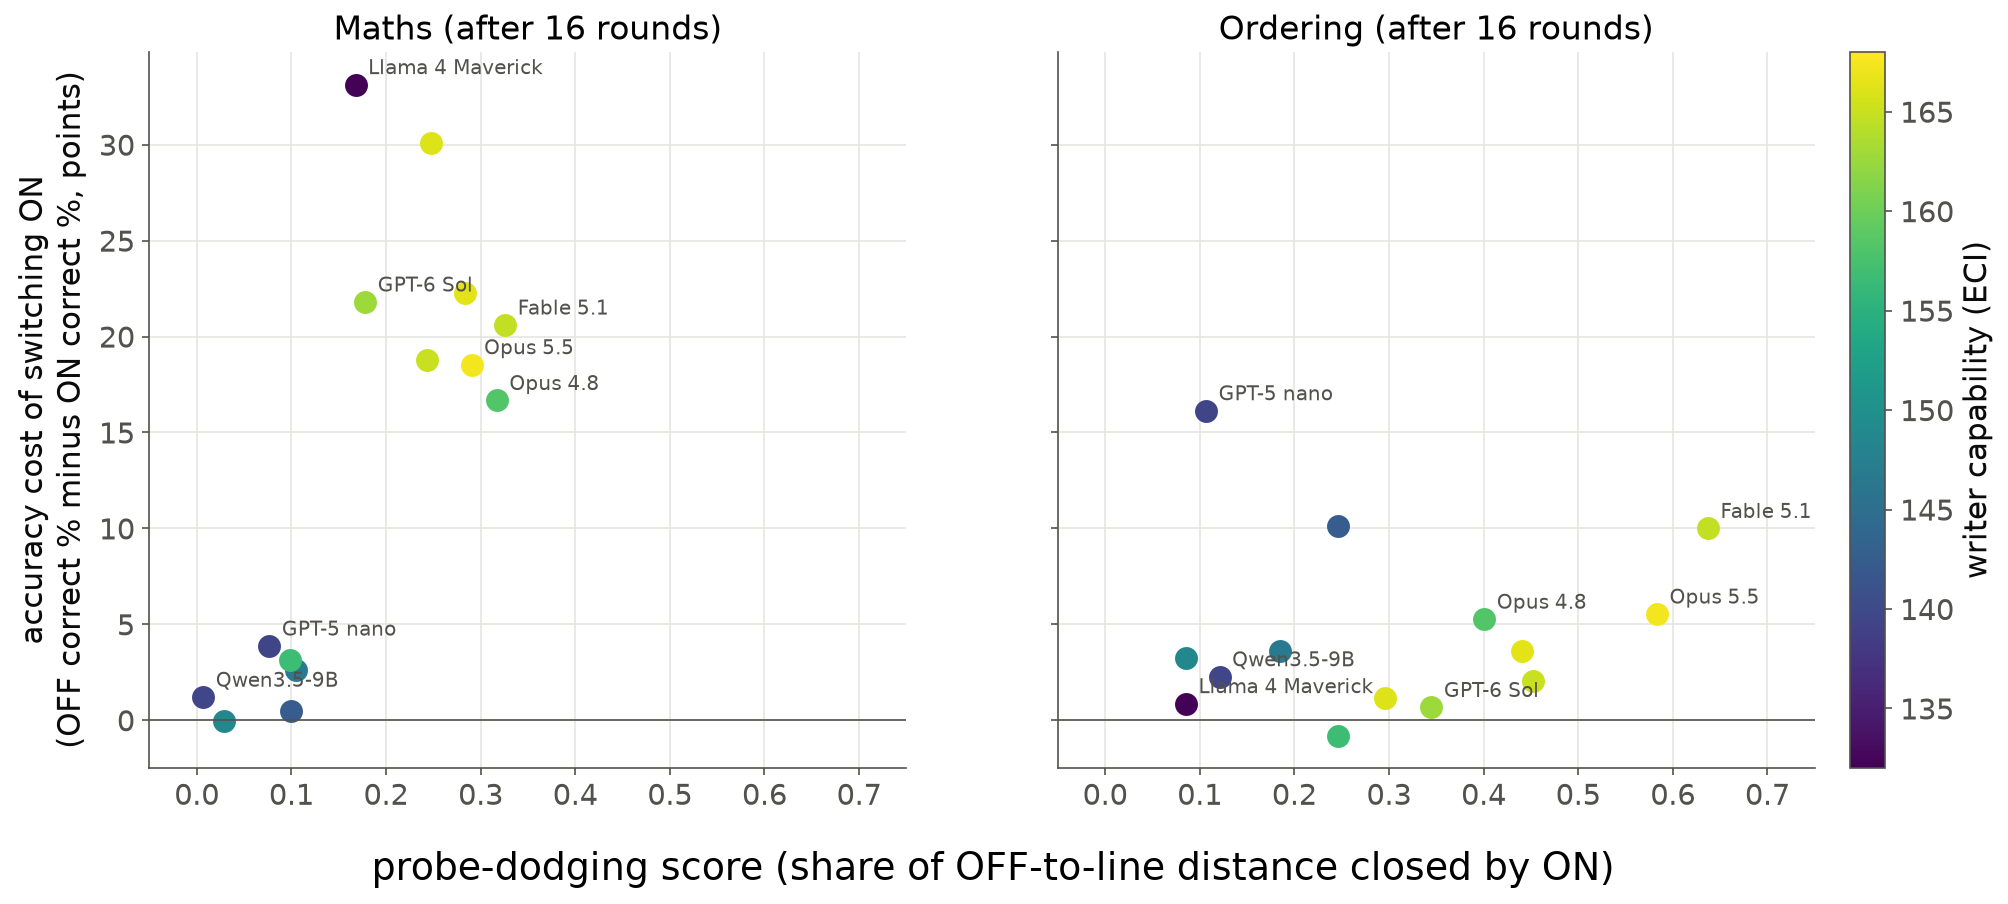
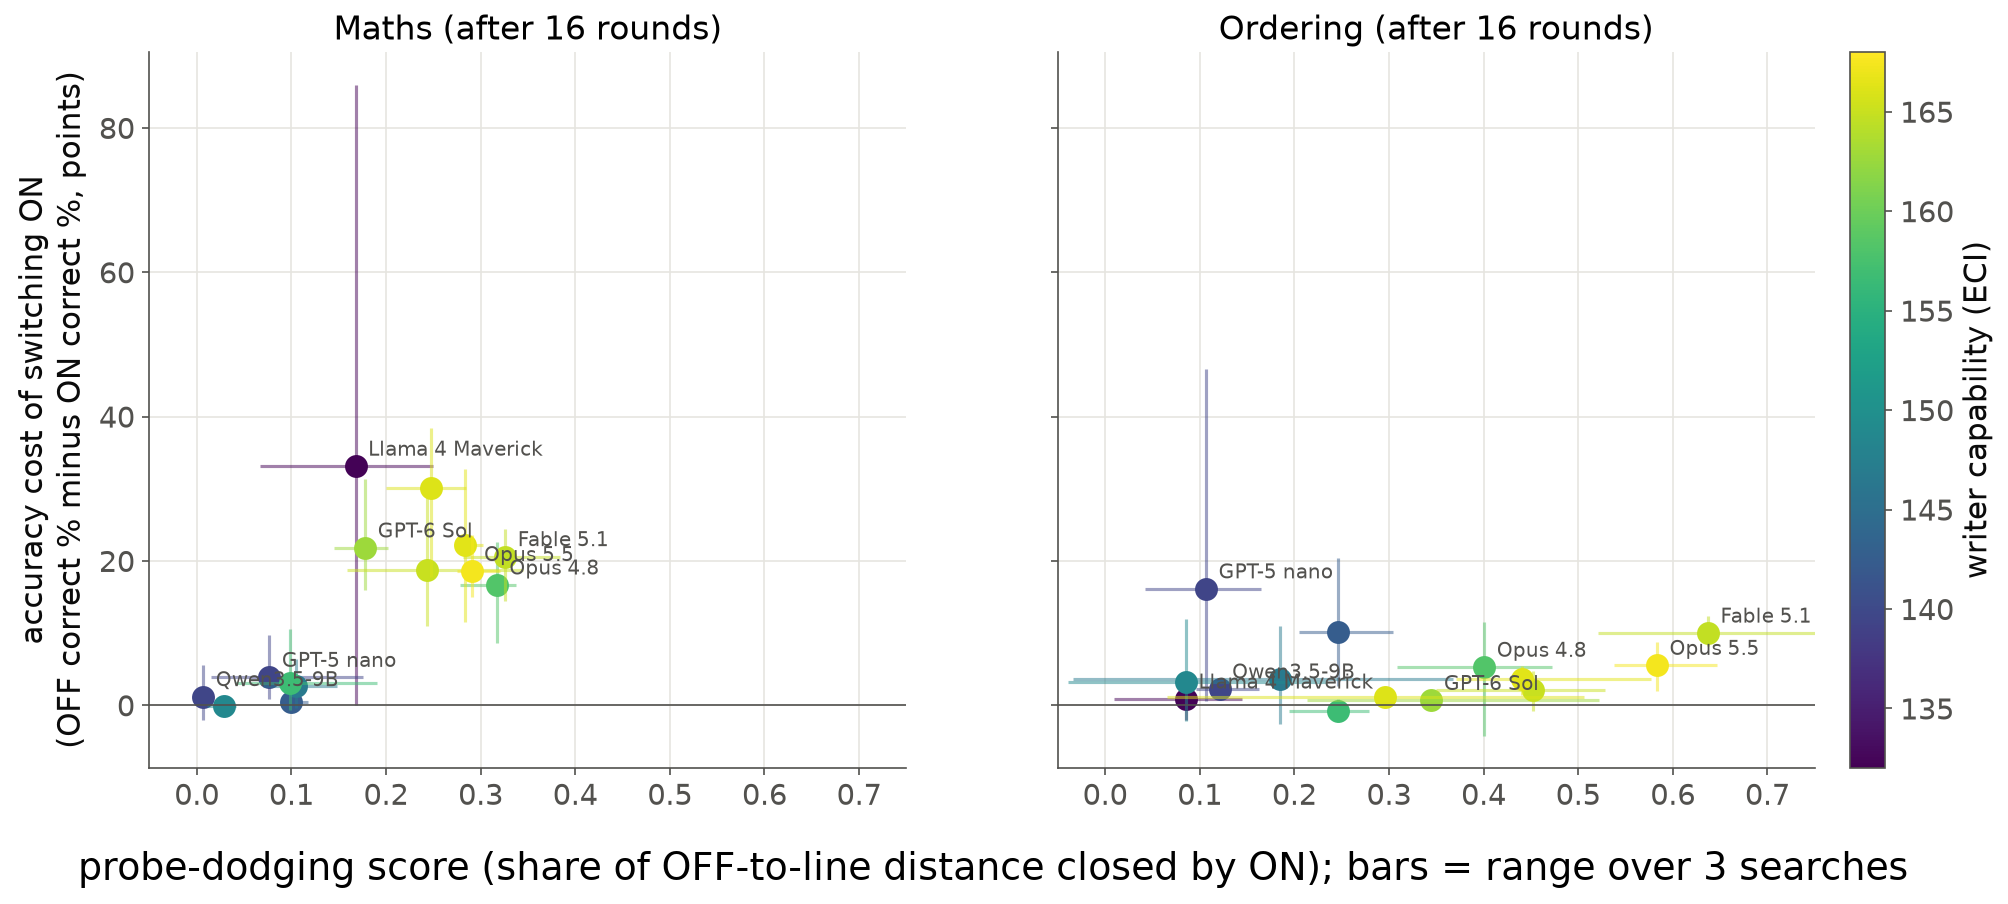
Accuracy-cost figure: range bars over the 3 searches on both axes

diff --git a/analysis/post_v8/rounds_and_success.py b/analysis/post_v8/rounds_and_success.py
@@ -47,40 +47,43 @@ RUNS = F.M45 / "runs"
 WRITER_BATCH = lambda w: "d" if w in F.ADDED_LATER else "c"
 
 
-def correct_shares(task: str, writer: str) -> tuple[float, float]:
-    """(ON, OFF) share of correct answers over the writer's 3 searches x 500 test pairs at B = 16. Maths: correct in any
+def correct_shares(task: str, writer: str) -> dict[str, tuple[float, float]]:
+    """Per search (chain): (ON, OFF) share of correct answers over its 500 test pairs at B = 16. Maths: correct in any
     format (m45's correctness-only re-judge, keyed arm|problem|seed); ordering: the task's validity rule."""
     root = RUNS / WRITER_BATCH(writer) / F.TASK_ROOT[task]
     rejudge = json.loads((root / "correctness_only.json").read_text()) if task == "maths" else None
-    hits = {"on": [], "off": []}
+    hits: dict[str, dict[str, list[bool]]] = {}
     for line in (root / "test_checked" / f"{writer}.jsonl").open():
         r = json.loads(line)
         arm, side = r["key"].rsplit("#", 1)
-        if not arm.endswith("@B16") or side not in hits:
+        if not arm.endswith("@B16") or side not in ("on", "off"):
             continue
         ok = rejudge[f"{r['key']}|{r['task']['id']}|{r['seed']}"] if rejudge is not None else r["valid"]
-        hits[side].append(bool(ok))
-    assert len(hits["on"]) == len(hits["off"]) == 1500, (task, writer, len(hits["on"]), len(hits["off"]))
-    return float(np.mean(hits["on"])), float(np.mean(hits["off"]))
+        hits.setdefault(arm.split("/")[1].split("@")[0], {"on": [], "off": []})[side].append(bool(ok))
+    assert len(hits) == 3 and all(len(h["on"]) == len(h["off"]) == 500 for h in hits.values()), (task, writer)
+    return {chain: (float(np.mean(h["on"])), float(np.mean(h["off"]))) for chain, h in hits.items()}
 
 
 def fig_cost(m45: dict) -> None:
+    """Dot = writer mean over its 3 searches; bars = range over the 3 searches (both axes)."""
     fig, axes = plt.subplots(1, 2, figsize=(15, 6.2), sharey=True)
     for ax, task in zip(axes, F.TASKS):
         for r in F.writer_rows(m45, task):
-            on, off = correct_shares(task, r["writer"])
-            cost = 100 * (off - on)
-            ax.plot(r["mean"], cost, "o", ms=10, color=colour(r["eci"]))
+            costs = [100 * (off - on) for on, off in correct_shares(task, r["writer"]).values()]
+            cost, c = float(np.mean(costs)), colour(r["eci"])
+            ax.hlines(cost, min(r["values"]), max(r["values"]), color=c, lw=1.5, alpha=0.5)
+            ax.vlines(r["mean"], min(costs), max(costs), color=c, lw=1.5, alpha=0.5)
+            ax.plot(r["mean"], cost, "o", ms=10, color=c)
             if r["writer"] in LABELLED:
                 ax.annotate(F.SHORT[r["writer"]], (r["mean"], cost), xytext=(6, 5), textcoords="offset points",
                             fontsize=9.5, color=F.v6.MUTED)
-            print(f"[{task}] {F.SHORT[r['writer']]}: OFF correct {off:.1%}, ON correct {on:.1%}, cost {cost:+.1f} points")
+            print(f"[{task}] {F.SHORT[r['writer']]}: cost {cost:+.1f} points (searches {', '.join(f'{x:+.1f}' for x in costs)})")
         ax.axhline(0, color=F.v6.MUTED, lw=0.8)
         ax.set_title(f"{task.capitalize()} (after 16 rounds)")
         ax.set_xlim(-0.05, 0.75)
         ax.grid(color=F.v6.GRID)
     axes[0].set_ylabel("accuracy cost of switching ON\n(OFF correct % minus ON correct %, points)")
-    fig.supxlabel("probe-dodging score (share of OFF-to-line distance closed by ON)", y=-0.02)
+    fig.supxlabel("probe-dodging score (share of OFF-to-line distance closed by ON); bars = range over 3 searches", y=-0.02)
     colourbar(fig, axes)
     fig.savefig(F.OUT / "cost.png", bbox_inches="tight")
 
